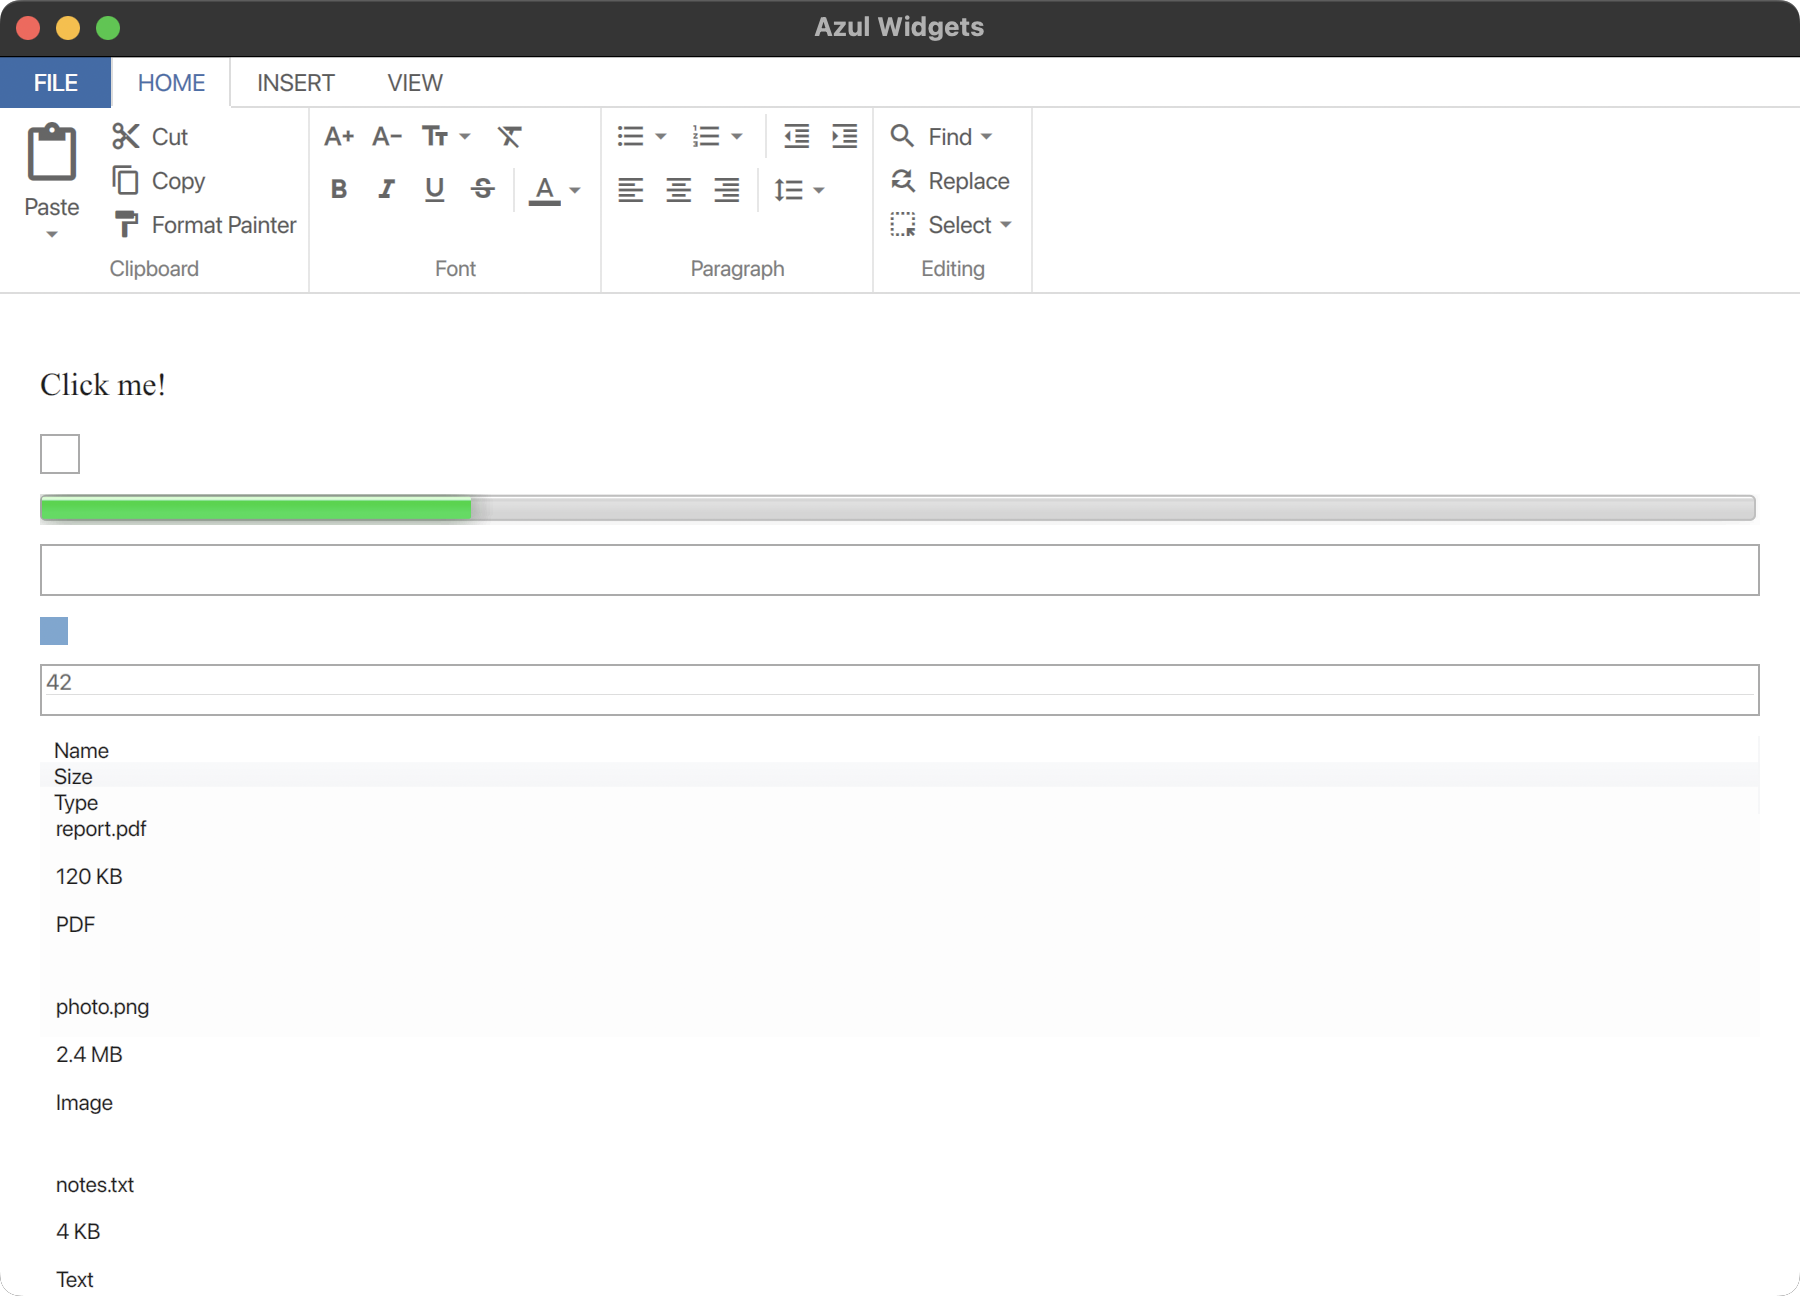
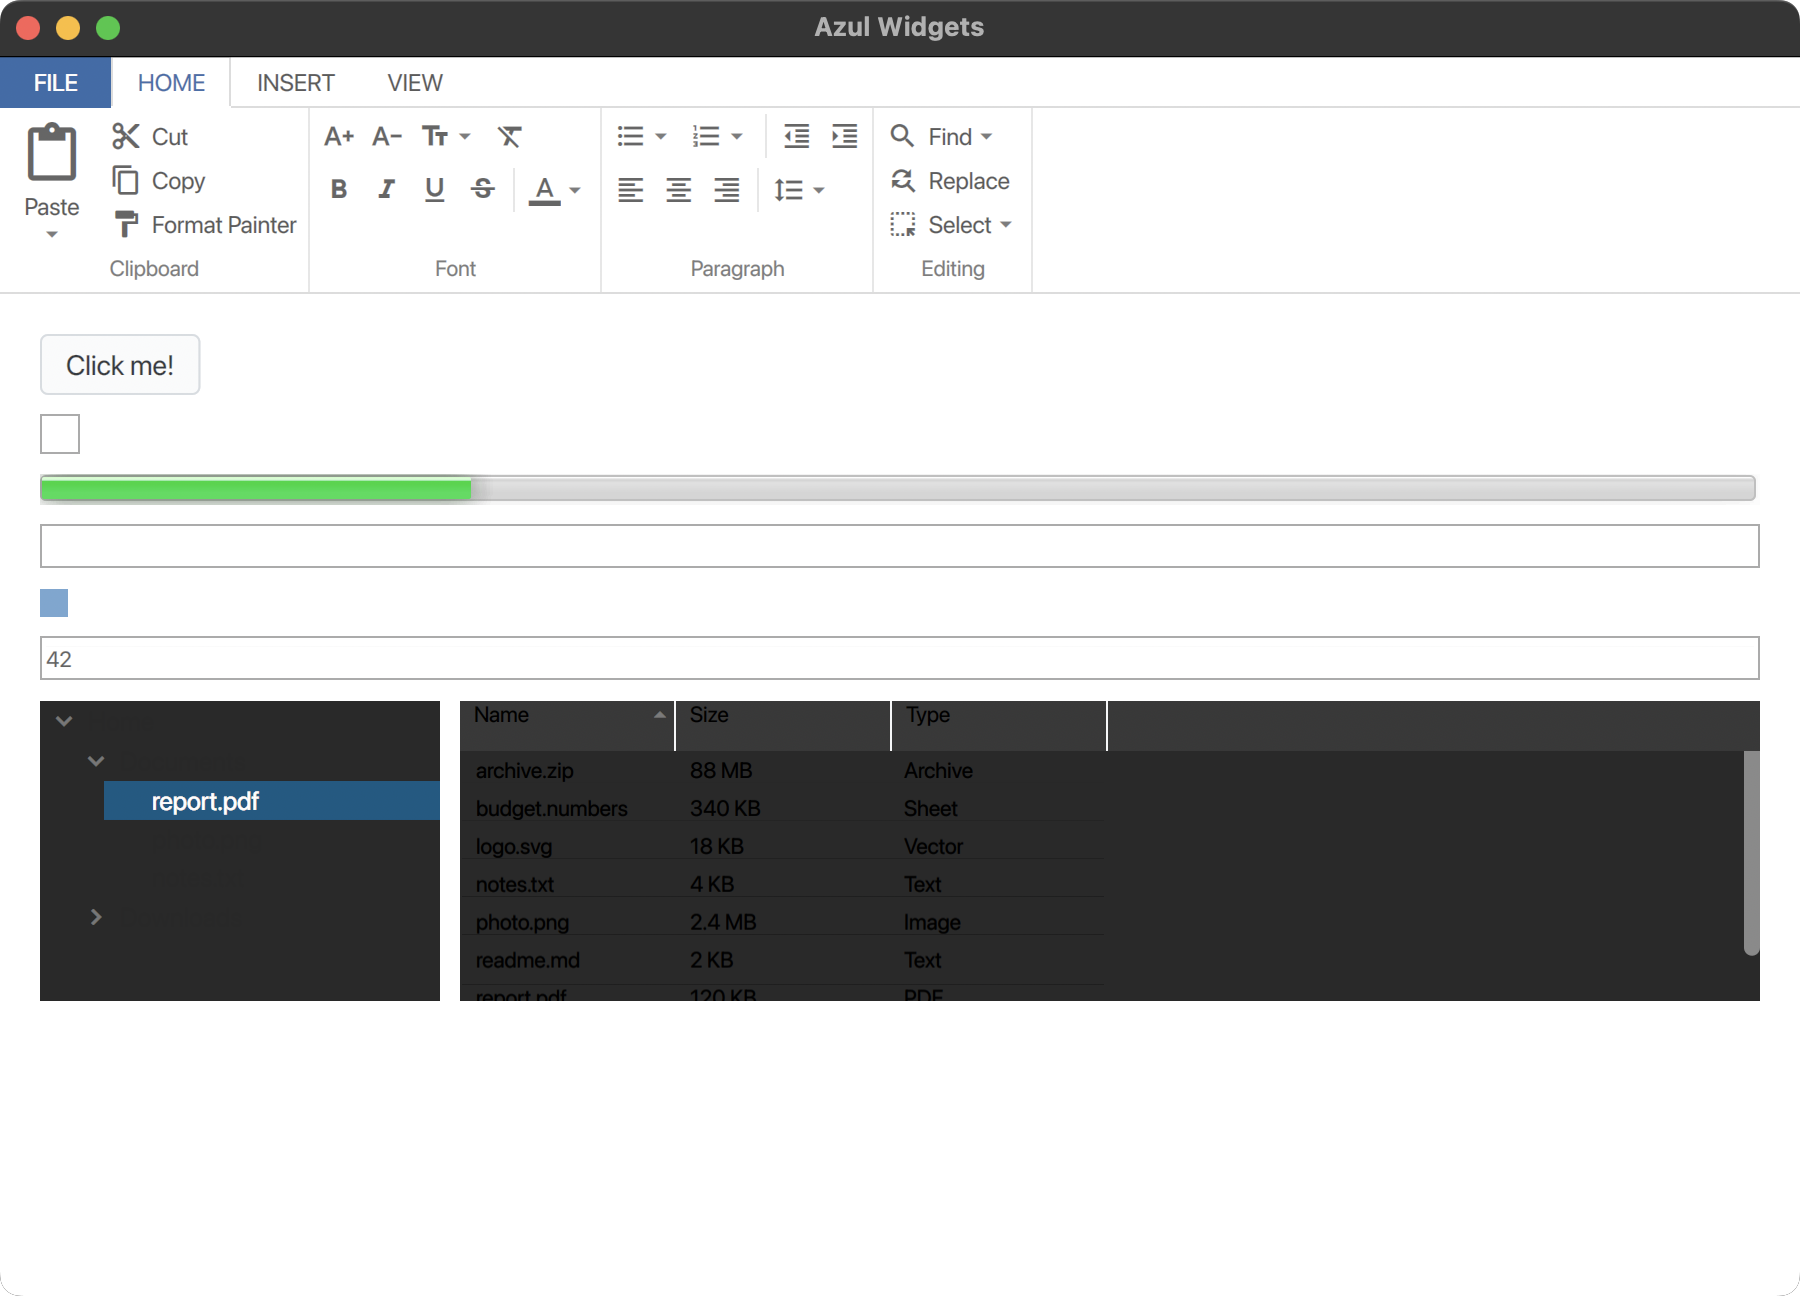
wip(widgets): dark-theme defaults for tree view and list view
Claude-Session: https://claude.ai/code/session_011gEwH9J6dofxraj6ttyBqG

diff --git a/layout/src/widgets/tree_view.rs b/layout/src/widgets/tree_view.rs
@@ -14,7 +14,10 @@ use azul_core::{
 #[allow(clippy::wildcard_imports)]
 // widget/render module pulls in the css property/value types it builds with
 use azul_css::{
-    dynamic_selector::{CssPropertyWithConditions, CssPropertyWithConditionsVec},
+    dynamic_selector::{
+        CssPropertyWithConditions, CssPropertyWithConditionsVec, DynamicSelector,
+        PseudoStateType, ThemeCondition,
+    },
     props::{
         basic::{
             color::{ColorOrSystem, ColorU},
@@ -104,6 +107,42 @@ const FIELD_BG: ColorU = ColorU {
     b: 252,
     a: 255,
 };
+// -- Dark theme --
+//
+// Inline CSS carries `@theme dark` conditions (`dark_theme`), and a later
+// property wins, so each dark value is declared right after the light one it
+// replaces. These are DEFAULTS: an app that wants the exact platform palette
+// still overrides them, but a tree must not be a white box in a dark window.
+const FIELD_BG_DARK: ColorU = ColorU {
+    r: 31,
+    g: 31,
+    b: 31,
+    a: 255,
+};
+const TEXT_COLOR_DARK: ColorU = ColorU {
+    r: 230,
+    g: 230,
+    b: 230,
+    a: 255,
+};
+const HOVER_BG_DARK: ColorU = ColorU {
+    r: 42,
+    g: 45,
+    b: 46,
+    a: 255,
+};
+const SELECTED_BG_DARK: ColorU = ColorU {
+    r: 9,
+    g: 71,
+    b: 113,
+    a: 255,
+};
+const ICON_COLOR_DARK: ColorU = ColorU {
+    r: 176,
+    g: 176,
+    b: 176,
+    a: 255,
+};
 const ICON_COLOR: ColorU = ColorU {
     r: 100,
     g: 100,
@@ -126,6 +165,14 @@ static TREE_CONTAINER_STYLE: &[CssPropertyWithConditions] = &[
     CssPropertyWithConditions::simple(CssProperty::const_font_family(SYSTEM_UI_FAMILY)),
     CssPropertyWithConditions::simple(CssProperty::const_text_color(StyleTextColor {
         inner: TEXT_COLOR,
+    })),
+    CssPropertyWithConditions::dark_theme(CssProperty::const_background_content(
+        StyleBackgroundContentVec::from_const_slice(&[StyleBackgroundContent::Color(
+            FIELD_BG_DARK,
+        )]),
+    )),
+    CssPropertyWithConditions::dark_theme(CssProperty::const_text_color(StyleTextColor {
+        inner: TEXT_COLOR_DARK,
     })),
 ];
 
@@ -152,6 +199,15 @@ static ROW_STYLE: &[CssPropertyWithConditions] = &[
     CssPropertyWithConditions::on_hover(CssProperty::const_background_content(
         StyleBackgroundContentVec::from_const_slice(&[StyleBackgroundContent::Color(HOVER_BG)]),
     )),
+    CssPropertyWithConditions::with_single_condition(
+        CssProperty::const_background_content(StyleBackgroundContentVec::from_const_slice(&[
+            StyleBackgroundContent::Color(HOVER_BG_DARK),
+        ])),
+        &[
+            DynamicSelector::PseudoState(PseudoStateType::Hover),
+            DynamicSelector::Theme(ThemeCondition::Dark),
+        ],
+    ),
 ];
 
 // -- Selected row style --
@@ -182,6 +238,11 @@ static ROW_SELECTED_STYLE: &[CssPropertyWithConditions] = &[
     CssPropertyWithConditions::simple(CssProperty::const_text_color(StyleTextColor {
         inner: SELECTED_TEXT,
     })),
+    CssPropertyWithConditions::dark_theme(CssProperty::const_background_content(
+        StyleBackgroundContentVec::from_const_slice(&[StyleBackgroundContent::Color(
+            SELECTED_BG_DARK,
+        )]),
+    )),
 ];
 
 // -- Children container style --
@@ -206,6 +267,9 @@ static ICON_STYLE: &[CssPropertyWithConditions] = &[
     CssPropertyWithConditions::simple(CssProperty::const_text_color(StyleTextColor {
         inner: ICON_COLOR,
     })),
+    CssPropertyWithConditions::dark_theme(CssProperty::const_text_color(StyleTextColor {
+        inner: ICON_COLOR_DARK,
+    })),
 ];
 
 // -- Leaf spacer (same width as icon, for alignment) --
@@ -222,6 +286,13 @@ static LABEL_STYLE: &[CssPropertyWithConditions] = &[
     CssPropertyWithConditions::simple(CssProperty::const_padding_left(
         LayoutPaddingLeft::const_px(4),
     )),
+    // The dark text colour is declared HERE, on the node that carries the
+    // text, not only on the container: a CONDITIONAL inline value does not
+    // reach a child through inheritance, so labels kept the light colour and
+    // came out near-black on the dark surface.
+    CssPropertyWithConditions::dark_theme(CssProperty::const_text_color(StyleTextColor {
+        inner: TEXT_COLOR_DARK,
+    })),
 ];
 
 // ============================================================================

diff --git a/layout/src/widgets/list_view.rs b/layout/src/widgets/list_view.rs
@@ -470,6 +470,13 @@ const CSS_MATCH_12980082330151137475_PROPERTIES: &[CssPropertyWithConditions] = 
     CssPropertyWithConditions::simple(CssProperty::FontFamily(StyleFontFamilyVecValue::Exact(
         StyleFontFamilyVec::from_const_slice(STYLE_FONT_FAMILY_8122988506401935406_ITEMS),
     ))),
+    // Same reason as the tree's label: a conditional inline value is not
+    // inherited, so the cell states its own dark colour.
+    CssPropertyWithConditions::dark_theme(CssProperty::TextColor(StyleTextColorValue::Exact(
+        StyleTextColor {
+            inner: ColorU { r: 230, g: 230, b: 230, a: 255 },
+        },
+    ))),
 ];
 const CSS_MATCH_12980082330151137475: CssPropertyWithConditionsVec =
     CssPropertyWithConditionsVec::from_const_slice(CSS_MATCH_12980082330151137475_PROPERTIES);
@@ -500,6 +507,11 @@ const CSS_MATCH_15315949193378715186_PROPERTIES: &[CssPropertyWithConditions] = 
     CssPropertyWithConditions::simple(CssProperty::BackgroundContent(
         StyleBackgroundContentVecValue::Exact(StyleBackgroundContentVec::from_const_slice(
             STYLE_BACKGROUND_CONTENT_7422581697888665934_ITEMS,
+        )),
+    )),
+    CssPropertyWithConditions::dark_theme(CssProperty::BackgroundContent(
+        StyleBackgroundContentVecValue::Exact(StyleBackgroundContentVec::from_const_slice(
+            &[StyleBackgroundContent::Color(ColorU { r: 43, g: 43, b: 43, a: 255 })],
         )),
     )),
 ];
@@ -534,6 +546,9 @@ const CSS_MATCH_15673486787900743642_PROPERTIES: &[CssPropertyWithConditions] = 
     CssPropertyWithConditions::simple(CssProperty::AlignItems(LayoutAlignItemsValue::Exact(
         LayoutAlignItems::Center,
     ))),
+    CssPropertyWithConditions::dark_theme(CssProperty::TextColor(StyleTextColorValue::Exact(
+        StyleTextColor { inner: ColorU { r: 230, g: 230, b: 230, a: 255 } },
+    ))),
 ];
 const CSS_MATCH_15673486787900743642: CssPropertyWithConditionsVec =
     CssPropertyWithConditionsVec::from_const_slice(CSS_MATCH_15673486787900743642_PROPERTIES);
@@ -550,6 +565,17 @@ const CSS_MATCH_17553577885456905601_PROPERTIES: &[CssPropertyWithConditions] = 
             STYLE_BACKGROUND_CONTENT_2444935983575427872_ITEMS,
         )),
     )),
+    // Dark defaults. Inline CSS takes `@theme dark` conditions and the last
+    // matching property wins, so each dark value sits after the light one it
+    // replaces. A list is a FIELD: in a dark window it must not stay white.
+    CssPropertyWithConditions::dark_theme(CssProperty::BackgroundContent(
+        StyleBackgroundContentVecValue::Exact(StyleBackgroundContentVec::from_const_slice(
+            &[StyleBackgroundContent::Color(ColorU { r: 31, g: 31, b: 31, a: 255 })],
+        )),
+    )),
+    CssPropertyWithConditions::dark_theme(CssProperty::TextColor(StyleTextColorValue::Exact(
+        StyleTextColor { inner: ColorU { r: 230, g: 230, b: 230, a: 255 } },
+    ))),
 ];
 const CSS_MATCH_17553577885456905601: CssPropertyWithConditionsVec =
     CssPropertyWithConditionsVec::from_const_slice(CSS_MATCH_17553577885456905601_PROPERTIES);
